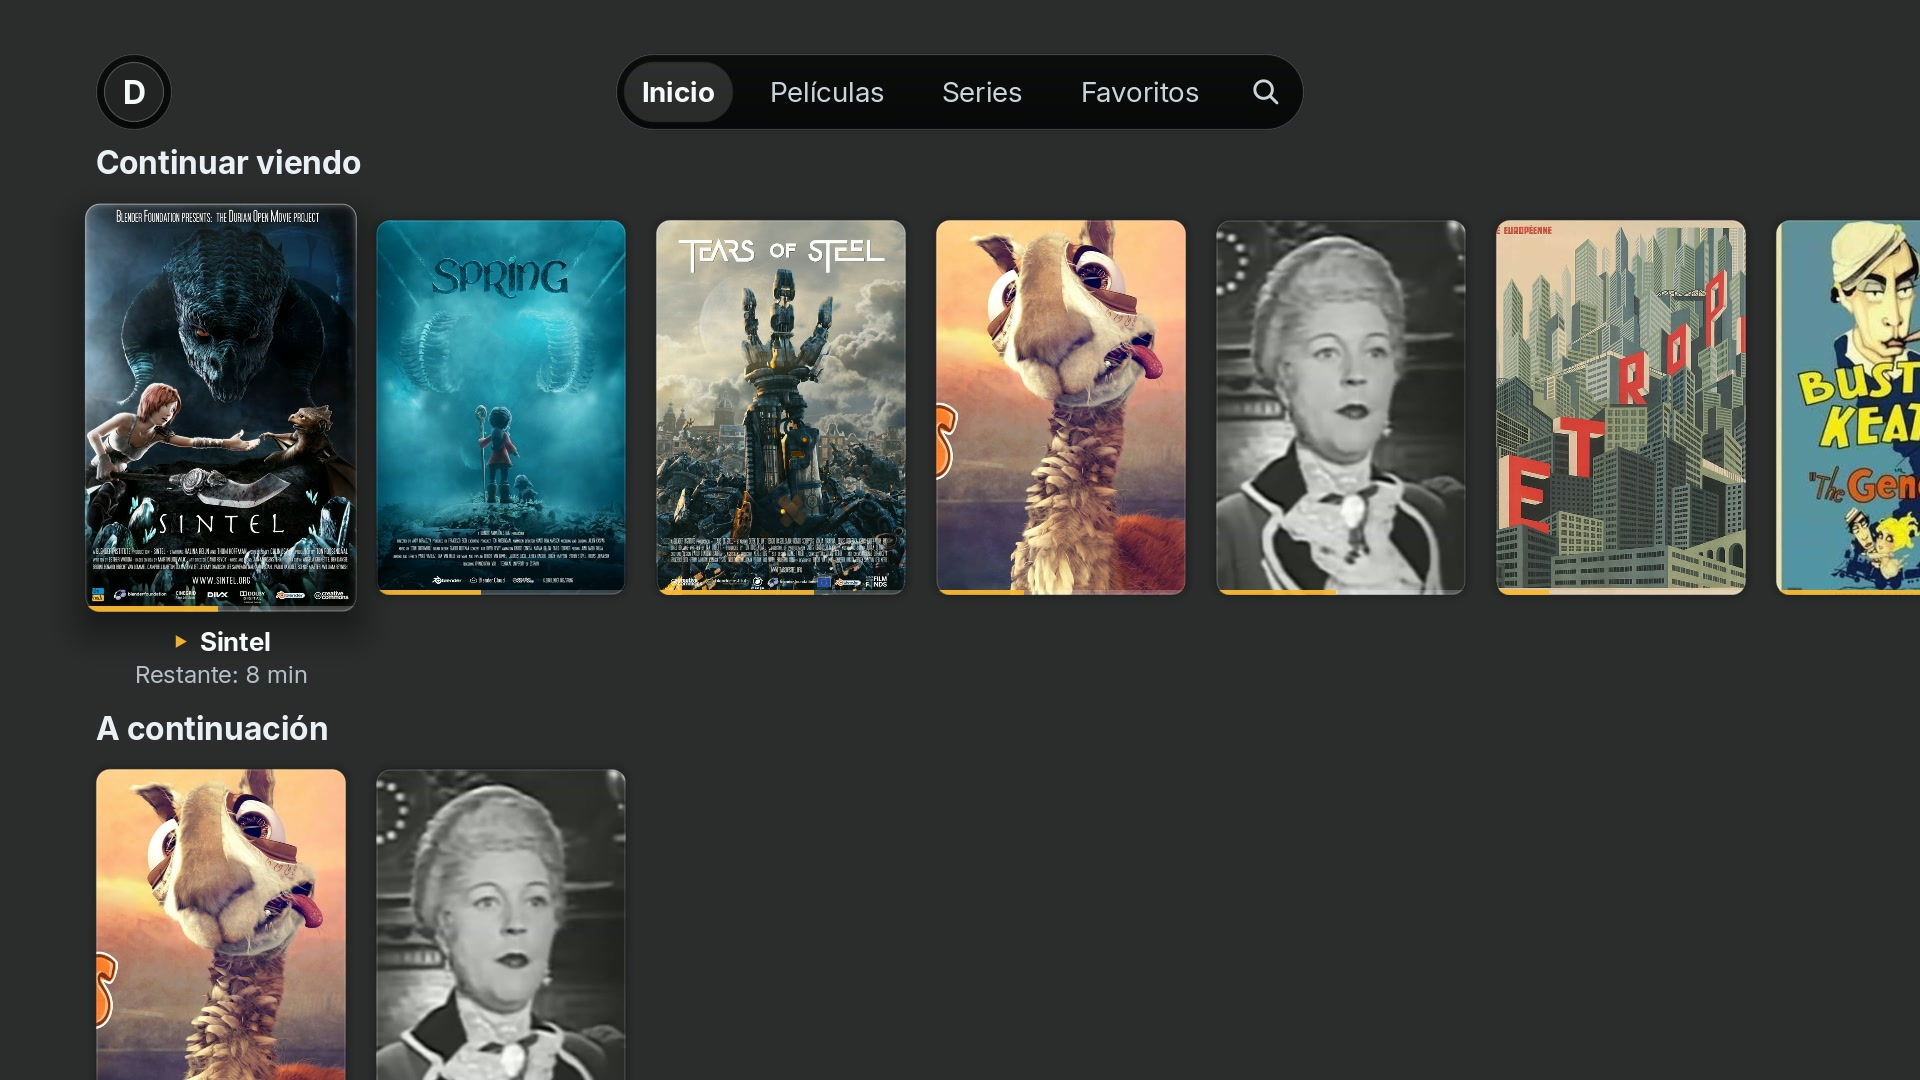
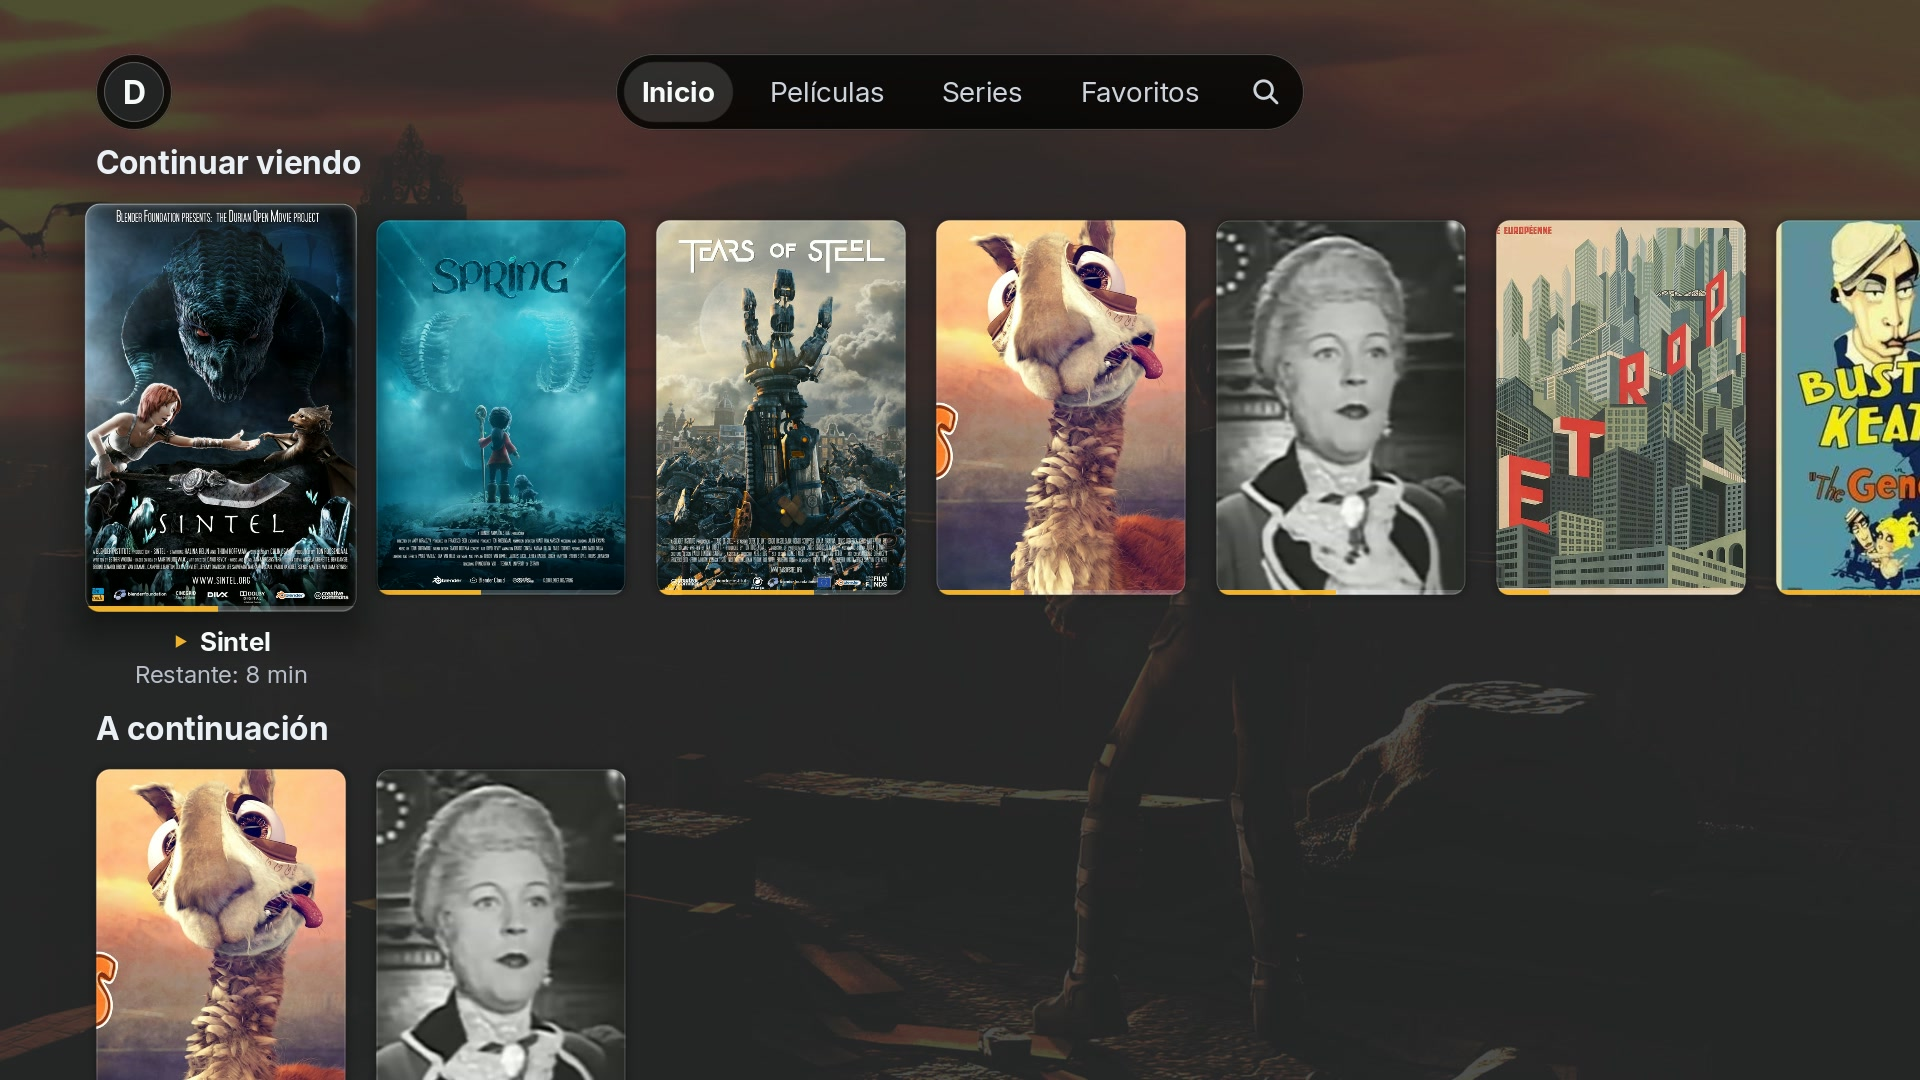
fix(home): keep the hero backdrop under the shelves (#271) (#276)

diff --git a/rust-modules/src/screens/home/tests.rs b/rust-modules/src/screens/home/tests.rs
@@ -546,105 +546,36 @@ fn blurred(blur: [[f32; 3]; 4]) -> CatalogMovie {
 }
 
 #[test]
-fn the_wash_floors_on_the_app_surface_and_never_dims_toward_black() {
+fn an_artless_grid_keeps_the_wash_floored_on_the_hero() {
     let flat = [theme::SURFACE_APP; 4];
-    // "no artwork" IS the app's own ground, with no special case
-    assert_eq!(
-        wash_corners(None, flat, 0.0),
-        flat,
-        "an empty pool is the app's ground"
-    );
-    assert_eq!(
-        wash_corners(Some(&CatalogMovie::default()), flat, 0.0),
-        flat,
-        "…and so is an item with no envelope"
-    );
-    // the grid end of the snap lands on exactly the colour `frame_clear` already laid down —
-    // where the old `dim` ramp landed on black
+    assert_eq!(wash_corners(None, flat, 0.0), flat, "an empty pool is the app's ground");
+    assert_eq!(wash_corners(Some(&CatalogMovie::default()), flat, 0.0), flat,
+        "an item with no envelope leaves the app's ground alone");
+
     let bright = blurred([
         [0.95, 0.93, 0.90],
         [1.0, 1.0, 1.0],
         [0.8, 0.75, 0.2],
         [0.1, 0.1, 0.12],
     ]);
-    assert_eq!(
-        wash_corners(Some(&bright), flat, 1.0),
-        flat,
-        "the dive resolves to the app ground, not to black"
-    );
-    assert_eq!(
-        wash_corners(Some(&bright), flat, 1.5),
-        flat,
-        "…and an overshooting snap cannot push past it"
-    );
-
-    // **The grid end held at the app's own surface, which is what makes every assertion below
-    // hold VERBATIM through the change that gave this function a second subject.** With
-    // `grid = SURFACE_APP` the lerp `mix(hero_t, SURFACE, sp)` is algebraically the old
-    // `keyed(blur, W * (1 - sp))` weight ramp, corner for corner — so these are still the same
-    // measurements of the same behaviour, not loosened ones. The grid end's own bound is
-    // `the_grid_end_of_the_dive_is_the_focused_tiles_ground` below.
-    const FLAT_GRID: [[f32; 4]; 4] = [theme::SURFACE_APP; 4];
-
-    // The tail of the dive — the exact frames that used to be near-black — for a DARK envelope
-    // as much as a bright one. The bound is the one invariant that separates a WEIGHT scale
-    // from a brightness ramp: a corner can only travel as far from the app surface as the lean
-    // weight STILL IN PLAY allows it to, so the deviation is capped by that corner's own
-    // remaining weight times the furthest a mix could take it (toward white above the surface,
-    // toward black below it). Do not loosen this to a flat percentage — the whole point is that
-    // it tightens to nothing as `sp → 1`, which is what pins the grid end of the snap.
-    //
-    // For scale: at sp=0.9 this allows ±0.046 on the two top corners, and the old `dim` ramp
-    // put them at 0.010 — a deviation of 0.163, off by three and a half times the budget.
+    // A tile with no envelope contributes no second subject. The hero's attenuated wash therefore
+    // survives the whole dive instead of being replaced by the flat app ground at its end.
     for m in [&bright, &blurred([[0.0; 3]; 4])] {
-        for &sp in &[0.9f32, 0.99, 0.996] {
-            for (c, w) in wash_corners(Some(m), FLAT_GRID, sp).iter().zip(HERO_WASH_W) {
-                let lean = w * (1.0 - sp);
-                for (ch, s) in c.iter().zip(theme::SURFACE_APP) {
-                    let budget = lean * s.max(1.0 - s);
-                    assert!(
-                        (ch - s).abs() <= budget + 1e-6,
-                        "at sp={sp} the ground is {ch} against a {s} surface — that is {} off a \
-                         {budget} budget, so the old dim ramp is back",
-                        (ch - s).abs()
-                    );
+        let wanted = AmbientWash::keyed(m.blur, HERO_WASH_W);
+        for sp in [0.0f32, 0.5, 0.9, 0.99, 0.996, 1.0, 1.5] {
+            for (corner, expected) in wash_corners(Some(m), flat, sp).iter().zip(wanted) {
+                for (value, want) in corner.iter().zip(expected) {
+                    assert!((value - want).abs() <= 1e-6,
+                        "at snap={sp} the retained wash is {value}, wanted {want}");
                 }
-                assert_eq!(c[3], 1.0, "a wash corner is opaque");
+                assert_eq!(corner[3], 1.0, "a wash corner is opaque");
             }
         }
     }
 
-    // the lean is a WEIGHT SCALE on the shared mix, not a brightness scale over it. Re-deriving
-    // it as `dim(keyed(blur, W), lean)` would darken the surface itself and fails here.
-    //
-    // Compared to a float epsilon rather than exactly, because the two spellings of the same
-    // algebra — the weight ramp on the right, the lerp between two finished targets on the left
-    // — associate their multiplies differently and land up to one ULP apart. The failure this
-    // guards against is a brightness scale, which is wrong by three and a half TIMES the budget
-    // asserted above, so an ULP of slack costs it nothing.
-    for (c, w) in wash_corners(Some(&bright), FLAT_GRID, 0.5)
-        .iter()
-        .zip(AmbientWash::keyed(bright.blur, HERO_WASH_W.map(|w| w * 0.5)))
-    {
-        for (a, b) in c.iter().zip(w) {
-            assert!(
-                (a - b).abs() <= 1e-6,
-                "half-dived is half the lean toward the artwork ({b}), not half the \
-                 brightness ({a})"
-            );
-        }
-    }
-    // …and the lean does go TOWARD the artwork: a bright envelope lifts the panel off the
-    // surface rather than sinking it.
-    let lit = wash_corners(Some(&bright), FLAT_GRID, 0.0);
-    assert!(
-        lit[1][0] > theme::SURFACE_APP[0],
-        "a white corner must brighten the ground it keys"
-    );
-    assert!(
-        lit[1][0] < 1.0,
-        "…but never all the way: it is a wash, not the photograph"
-    );
+    let lit = wash_corners(Some(&bright), flat, 0.0);
+    assert!(lit[1][0] > theme::SURFACE_APP[0], "a white corner brightens the ground");
+    assert!(lit[1][0] < 1.0, "it is a wash, not the photograph");
 }
 
 #[test]
@@ -687,8 +618,8 @@ fn the_grid_end_of_the_dive_is_the_focused_tiles_ground() {
     // on a library with no envelopes at all.
     same(
         wash_corners(Some(&hero), [theme::SURFACE_APP; 4], 1.0),
-        [theme::SURFACE_APP; 4],
-        "an artless shelf is the app's own ground, not a leftover hero tint",
+        AmbientWash::keyed(hero.blur, HERO_WASH_W),
+        "an artless shelf keeps the hero's own ground",
     );
 
     // Halfway is halfway between the two grounds — a lerp, not a sum. Summing the two leans
@@ -704,6 +635,30 @@ fn the_grid_end_of_the_dive_is_the_focused_tiles_ground() {
                 (v - want).abs() <= 1e-6,
                 "mid-dive corner channel is {v}, halfway between the two grounds is {want}"
             );
+        }
+    }
+}
+
+#[test]
+fn the_hero_backdrop_stays_visible_but_attenuated_under_shelves() {
+    assert_eq!(shelf_art_alpha(7, 0.5, 1.0), 0.0, "the hero itself uses the full backdrop");
+    let alpha = shelf_art_alpha(7, 1.0, 1.0);
+    assert!(alpha > 0.0, "the backdrop must not disappear when the hero leaves");
+    assert!(alpha < 0.2, "the shelves keep their content ahead of the art");
+    assert_eq!(shelf_art_alpha(0, 1.0, 1.0), 0.0, "no texture draws no backdrop");
+}
+
+#[test]
+fn an_artless_grid_keeps_the_hero_wash() {
+    let hero = blurred([[0.95, 0.1, 0.1]; 4]);
+    let want = AmbientWash::keyed(hero.blur, HERO_WASH_W);
+    for snap in [1.0, 1.5] {
+        let got = wash_corners(Some(&hero), [theme::SURFACE_APP; 4], snap);
+        for (corner, wanted) in got.iter().zip(want) {
+            for (value, expected) in corner.iter().zip(wanted) {
+                assert!((value - expected).abs() <= 1e-6,
+                    "an artless shelf keeps the hero's backdrop at snap={snap}: got {value}, wanted {expected}");
+            }
         }
     }
 }

diff --git a/rust-modules/src/screens/home/mod.rs b/rust-modules/src/screens/home/mod.rs
@@ -184,13 +184,10 @@ impl Backdrop {
             h.map(|h| crate::ui::widgets::resolve_tex_wh_on(h.item.sid, &h.item.art, 1280, 720, 0))
                 .unwrap_or((0, 0.0, 0.0))
         };
-        if snap < HERO_ART_CULL {
-            self.tex = resolve(hero);
-            self.outgoing_tex = resolve(outgoing);
-        } else {
-            self.tex = (0, 0.0, 0.0);
-            self.outgoing_tex = (0, 0.0, 0.0);
-        }
+        // Keep the current hero texture after the dive: the shelves draw it attenuated instead of
+        // dropping the backdrop on the floor. The outgoing hero is still only a transition layer.
+        self.tex = resolve(hero);
+        self.outgoing_tex = resolve(outgoing);
 
         let changed = match (self.keyed.as_ref(), selected) {
             (Some((a, x)), Some((b, y))) => a != b || x != y,
@@ -265,6 +262,17 @@ impl Backdrop {
                 backdrop_art(p, self.tex, env.sp, in_x, incoming_a);
             } else {
                 backdrop_art(p, self.tex, env.sp, 0.0, incoming_a);
+            }
+        }
+        if !folded && slide.is_none() && env.sp >= HERO_ART_CULL {
+            let alpha = shelf_art_alpha(self.tex.0, env.sp, incoming_a);
+            if alpha > 0.01 {
+                p.tex(
+                    self.tex.0,
+                    Rect::new(0.0, 0.0, SCR_W, SCR_H).cover(self.tex.1, self.tex.2),
+                    0.0,
+                    theme::with_a(theme::TINT_WHITE, alpha),
+                );
             }
         }
         if !folded && env.hero_a > 0.01 {
@@ -2274,6 +2282,9 @@ fn wash_corners(hero: Option<&CatalogMovie>, grid: [[f32; 4]; 4], snap: f32) -> 
         .map(|m| AmbientWash::keyed(m.blur, HERO_WASH_W))
         .unwrap_or([theme::SURFACE_APP; 4]);
     let t = snap.clamp(0.0, 1.0);
+    // A focused tile with no envelope of its own must not erase the backdrop the page already
+    // had. Keep the hero's attenuated wash in that case; a real tile wash still takes over.
+    let grid = if grid == [theme::SURFACE_APP; 4] { hero } else { grid };
     std::array::from_fn(|i| theme::mix(hero[i], grid[i], t))
 }
 fn wash_hidden(snap: f32, art: f32, outgoing: Option<f32>) -> bool {
@@ -2289,6 +2300,10 @@ fn reveal(tex: u32, spring: &Spring) -> f32 {
 fn art_rect(tex: (u32, f32, f32), snap: f32, dx: f32) -> Rect {
     Rect::new(dx, -snap * (SCR_H - 120.0), SCR_W, SCR_H).cover(tex.1, tex.2)
 }
+fn shelf_art_alpha(tex: u32, snap: f32, reveal: f32) -> f32 {
+    if tex == 0 || snap < HERO_ART_CULL { 0.0 } else { reveal * 0.16 }
+}
+
 fn backdrop_art(p: Painter, tex: (u32, f32, f32), snap: f32, dx: f32, alpha: f32) {
     if tex.0 == 0 || alpha <= 0.01 || !on_axis(dx, SCR_W, SCR_W, 0.0) {
         return;
